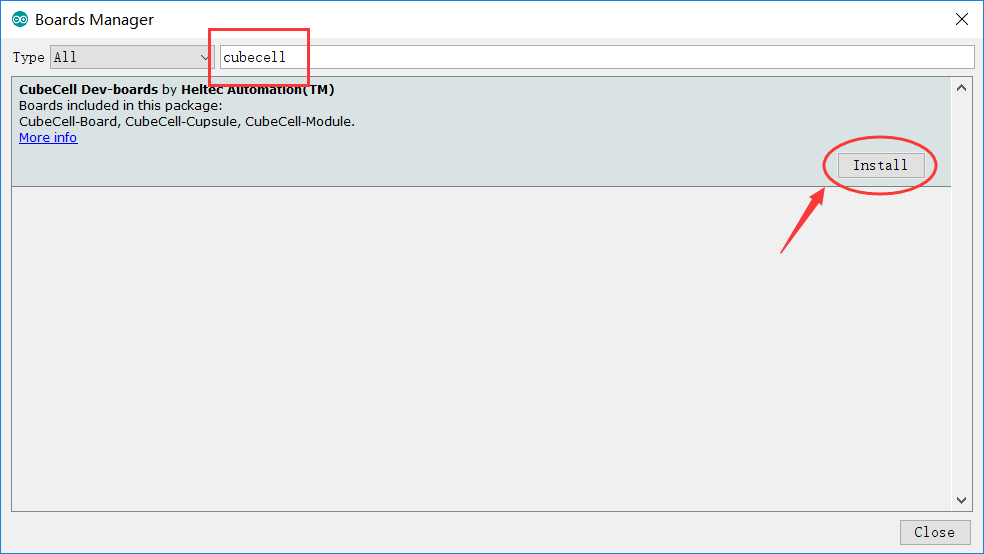
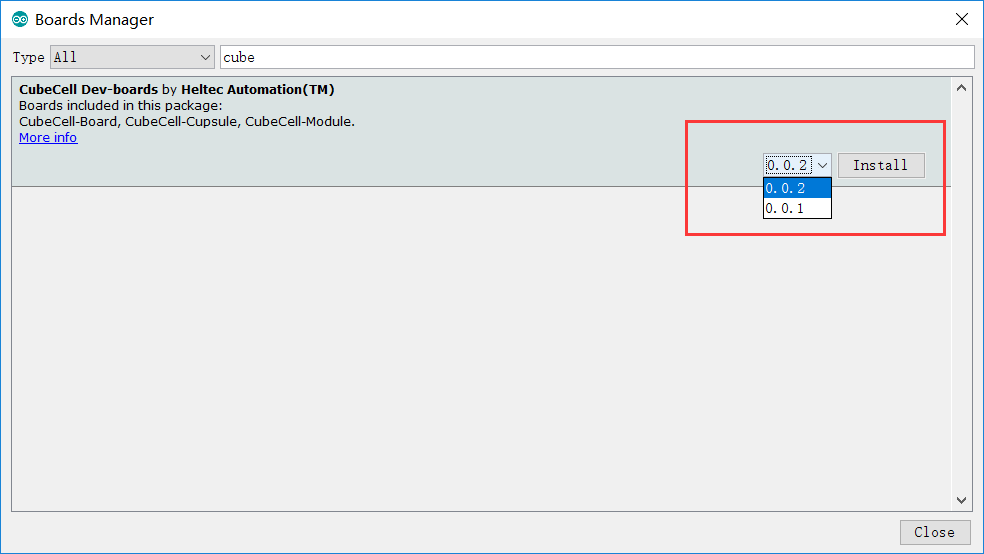
修正部分显示错误

diff --git a/en/user_manual/how_to_connect_ht-m01_to_ttn-the-things-network.md b/en/user_manual/how_to_connect_ht-m01_to_ttn-the-things-network.md
@@ -2,7 +2,11 @@
 
 -------------------------------------------------------------------------------------------------------
 
-[TOC]
+## CONTENT
+
+1. [Overview](#overview)
+2. [Preparation](#preparation)
+3. [Connect to TTN](#connect-to-ttn)
 
 
 
@@ -20,11 +24,11 @@
 
 Select ```Gateway``` in the TTN's console.
 
-![](\img\how_to_connect_ht-m01_to_ttn-the-things-network\01.png)
+<img src="img\how_to_connect_ht-m01_to_ttn-the-things-network\01.png">
 
 Fill in the HT-M01 information as shown below and complete the addition.
 
-![](\img\how_to_connect_ht-m01_to_ttn-the-things-network\02.png)
+<img src="img\how_to_connect_ht-m01_to_ttn-the-things-network\02.png">
 
 - If you are using packet_forwarder_UI in Windows® and forwarding the message to the TTN, you need to:
 
@@ -32,7 +36,7 @@ Fill in the HT-M01 information as shown below and complete the addition.
 2. Check the box to the contents.
 3. Click OK to start forwarding.
 
-![](\img\how_to_connect_ht-m01_to_ttn-the-things-network\03.png)
+<img src="img\how_to_connect_ht-m01_to_ttn-the-things-network\03.png">
 
 - If you are using packet_forwarder forwarding in Raspberry Pi (Linux)
   The global_conf file needs a few changes. To edit it type:
@@ -56,7 +60,7 @@ Fill in the HT-M01 information as shown below and complete the addition.
 
   Going back to TTN, you will get this:
 
-  ![](img\how_to_connect_ht-m01_to_ttn-the-things-network\04.png)
+<img src="img\how_to_connect_ht-m01_to_ttn-the-things-network\04.png">
 
 
 

diff --git a/zh_CN/user_manual/how_to_connect_ht-m01_to_ttn-the-things-network.md b/zh_CN/user_manual/how_to_connect_ht-m01_to_ttn-the-things-network.md
@@ -2,9 +2,11 @@
 
 -------------------------------------------------------------------------------------------------------
 
-[TOC]
+## 目录
 
-
+1. [总览](#总览)
+2. [事前准备](#事前准备)
+3. [连接到TTN](#连接到TTN)
 
 ## 总览
 
@@ -20,11 +22,11 @@
 
 在TTN的个人界面中选择Gateway。
 
-![](\img\how_to_connect_ht-m01_to_ttn-the-things-network\01.png)
+<img src="img\how_to_connect_ht-m01_to_ttn-the-things-network\01.png">
 
 如下所示填写HT-M01信息并完成添加。
 
-![](\img\how_to_connect_ht-m01_to_ttn-the-things-network\02.png)
+<img src="img\how_to_connect_ht-m01_to_ttn-the-things-network\02.png">
 
 - 如果您正在Windows®中使用packet_forwarder_UI并将消息转发到TTN，则需要：
 
@@ -34,7 +36,7 @@
 
 3. 单击确定开始转发。
 
-![](\img\how_to_connect_ht-m01_to_ttn-the-things-network\03.png)
+<img src="img\how_to_connect_ht-m01_to_ttn-the-things-network\03.png">
 
 - 如果您在Raspberry Pi（Linux）中使用packet_forwarder转发
   global_conf文件需要进行一些更改。 要编辑它，请输入：
@@ -58,7 +60,7 @@
   
   回到TTN，您将获得以下信息：
   
-  ![](img\how_to_connect_ht-m01_to_ttn-the-things-network\04.png)
+  <img src="img\how_to_connect_ht-m01_to_ttn-the-things-network\04.png">
   
   
 

diff --git a/en/user_manual/how_to_install_ASR650x_Arduino.md b/en/user_manual/how_to_install_ASR650x_Arduino.md
@@ -25,13 +25,13 @@ Input last ASR650x board manager URL
 
 *Now the last board manager URL: [https://github.com/HelTecAutomation/ASR650x-Arduino/releases/download/``releases``/package_CubeCell_index.json](https://github.com/HelTecAutomation/ASR650x-Arduino/releases/download/0.0.1/package_CubeCell_index.json)*
 
-The ```releases``` please refer to the latest version of github (for example: 0.0.1)
+The ```releases``` please refer to the latest version of github (for example: 0.0.2)
 
 [https://github.com/HelTecAutomation/ASR650x-Arduino/releases](https://github.com/HelTecAutomation/ASR650x-Arduino/releases)
 
 <img src="img/how_to_install_ASR650x_Arduino/03.png">
 
-Click `Tools`->`Board:`->`Boards Manager...`, search `Heltec cubecell`in the new pop-up dialog, then click `install`
+Click `Tools`->`Board:`->`Boards Manager...`, search `Heltec cubecell`in the new pop-up dialog, select the latest `releases` and  click `install`
 
 <img src="img/how_to_install_ASR650x_Arduino/04.png">
 
@@ -65,8 +65,6 @@ Upload it
 Open Arduino IDE, then new a `.ino` file, then copy the below code.
 
 ```arduino
-#include <heltec.h>
-
 // the setup routine runs once when starts up
 void setup(){
 

diff --git a/zh_CN/user_manual/how_to_install_ASR650x_Arduino.md b/zh_CN/user_manual/how_to_install_ASR650x_Arduino.md
@@ -24,13 +24,13 @@
 
 * 现在最新的ASR650x CubeCell开发版网址: [https://github.com/HelTecAutomation/ASR650x-Arduino/releases/download/``releases``/package_CubeCell_index.json](https://github.com/HelTecAutomation/ASR650x-Arduino/releases/download/0.0.1/package_CubeCell_index.json)*
 
-  其中```release```请参考github中的最新版本(例如:0.0.1)
+  其中```release```请参考github中的最新版本(例如:0.0.2)
 
   [https://github.com/HelTecAutomation/ASR650x-Arduino/releases](https://github.com/HelTecAutomation/ASR650x-Arduino/releases)
 
 <img src="img/how_to_install_ASR650x_Arduino/03.png">
 
-点击 `Tools`->`Board:`->`Boards Manager...`, 在弹出框中搜索 `Heltec cubecell` , 点击 `install`
+点击 `Tools`->`Board:`->`Boards Manager...`, 在弹出框中搜索 `Heltec cubecell` , 选择希望下载的发布版本`releases`，点击 `install`
 
 <img src="img/how_to_install_ASR650x_Arduino/04.png">
 
@@ -64,8 +64,6 @@ Upload it 上传
 打开 Arduino IDE, 新建一个 `.ino` 程序, 复制以下代码。
 
 ```arduino
-#include <heltec.h>
-
 // the setup routine runs once when starts up
 void setup(){
 

diff --git a/en/user_manual.md b/en/user_manual.md
@@ -13,3 +13,4 @@
 10. [LoRa Node 151 LoRaWAN Example Usage](en/user_manual/lora_node_151_lorawan_example_usage)
 11. [Turtle Board LoRaWAN Example Usage](en/user_manual/Turtle_Board_lorawan_example_usage)
 12. [What's the Upgrade of WiFi LoRa 32 (V2) Compare with V1](en/user_manual/the_upgrade_of_wifi_lora_32_v2_compare_with_v1) 
+13. [How to connect HT-M01 to TTN(The-Things-Network)](en/user_manual/how_to_connect_ht-m01_to_ttn-the-things-network)
